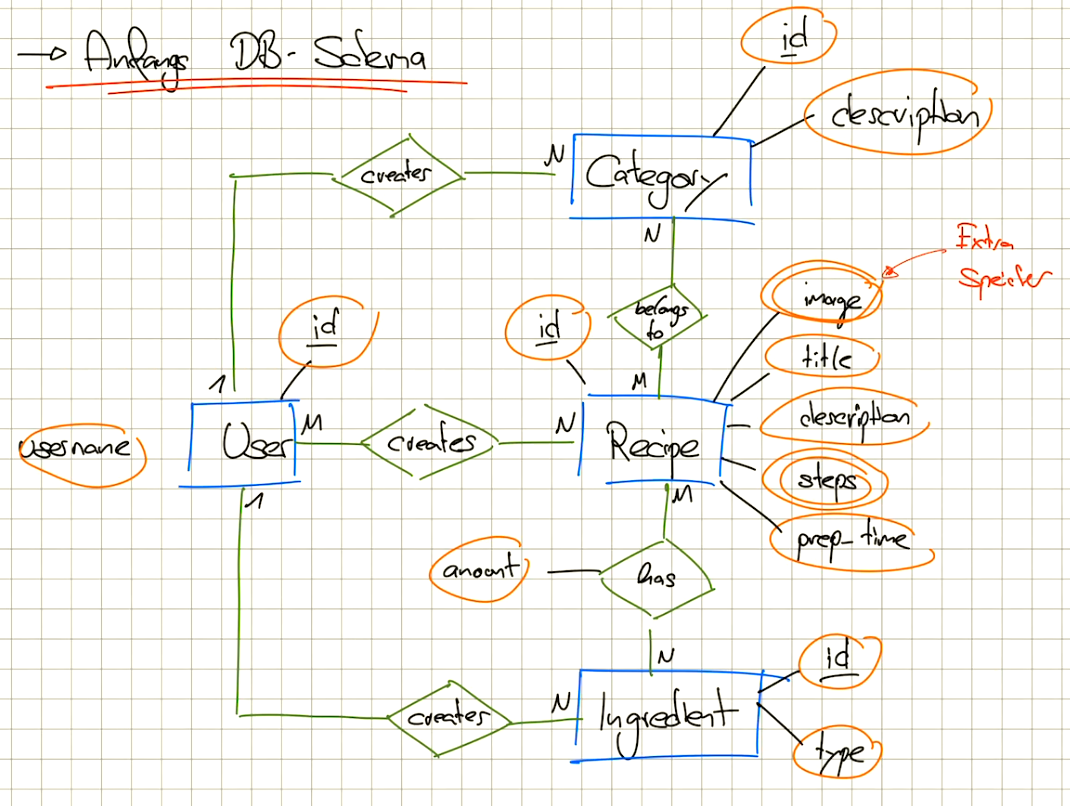
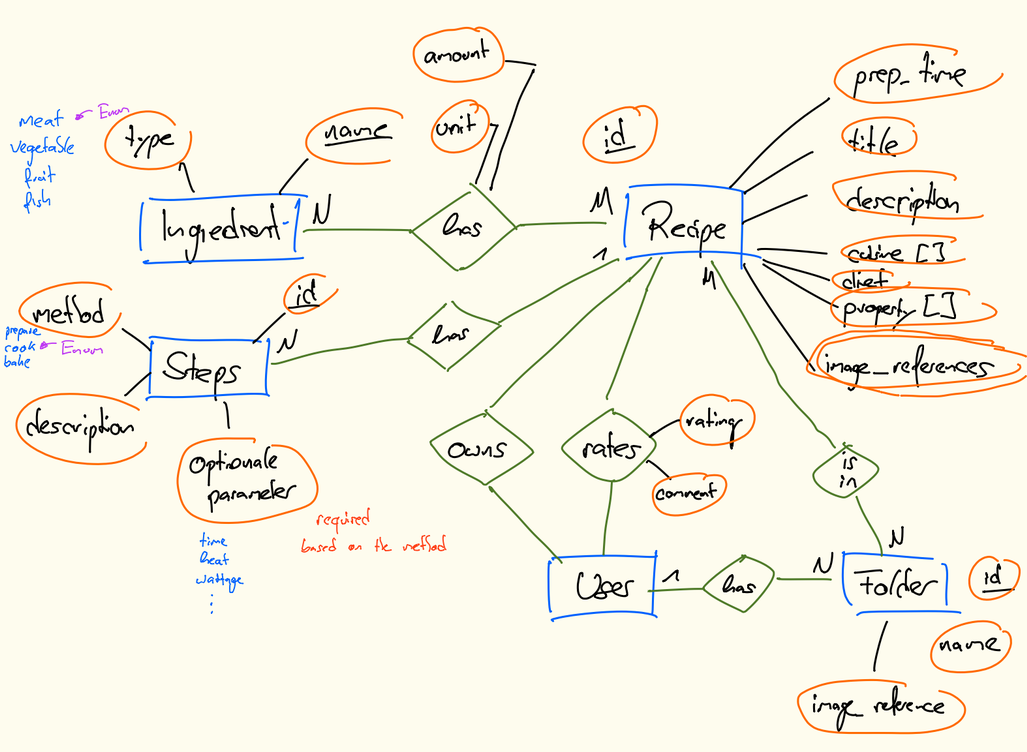
Added ER-Modell and updated docs

diff --git a/docs/planning/features.md b/docs/planning/features.md
@@ -7,19 +7,19 @@ Each feature page links to its epic issue, and each epic links back to its page.
 
 ## Feature Overview
 
-| Feature                        | Release | Priority | Spec                                                      | Epic |
-|--------------------------------|---------|----------|-----------------------------------------------------------|------|
-| Page: Rezepte Erstellung       | MVP     | Must     | -                                                         | -    |
-| Page: Meine Rezepte            | MVP     | Must     | -                                                         | -    |
-| Page: Rezepte Übersicht        | MVP     | Must     | -                                                         | -    |
-| Page: Rezepte Zubereitung      | MVP     | Must     | -                                                         | -    |
-| Page: Rezepte Feed             | -       | Must     | -                                                         | -    |
-| Page: Meal prepping            | -       | Should   | -                                                         | -    |
-| Page: Shopping Liste           | -       | Should   | -                                                         | -    |
-| Page: Profile Page             | -       | Must     | -                                                         | -    |
-| AI recipe assistance - Chatbot | -       | Must     | [AI recipe assistance](../epic-description/ai-assistance) | -    |
-| AI recipe assistance - Plugins | -       | Should   | [AI recipe assistance](../epic-description/ai-assistance) | -)   |
-| Sharing, groups & feed         | -       | Could    | -                                                         | -    |
+| Feature                        | Release | Priority | Spec                                                | Epic                                                      |
+|--------------------------------|---------|----------|-----------------------------------------------------|-----------------------------------------------------------|
+| Page: Rezepte Erstellung       | MVP     | Must     | [Rezepte Erstellung](../epic-specs/recipe-creation) | [GitHub](https://github.com/Luitzzi/RecipeMate/issues/11) |
+| Page: Meine Rezepte            | MVP     | Must     | -                                                   | -                                                         |
+| Page: Rezepte Übersicht        | MVP     | Must     | -                                                   | -                                                         |
+| Page: Rezepte Zubereitung      | MVP     | Must     | -                                                   | -                                                         |
+| Page: Rezepte Feed             | -       | Must     | -                                                   | -                                                         |
+| Page: Meal prepping            | -       | Should   | -                                                   | -                                                         |
+| Page: Shopping Liste           | -       | Should   | -                                                   | -                                                         |
+| Page: Profile Page             | -       | Must     | -                                                   | -                                                         |
+| AI recipe assistance - Chatbot | -       | Must     | [AI recipe assistance](../epic-specs/ai-assistance) | -                                                         |
+| AI recipe assistance - Plugins | -       | Should   | [AI recipe assistance](../epic-specs/ai-assistance) | -                                                         |
+| Sharing, groups & feed         | -       | Could    | -                                                   | -                                                         |
 
 ## Release plan
 

diff --git a/docs/planning/epic-specs/recipe-creation.md b/docs/planning/epic-specs/recipe-creation.md
@@ -1,0 +1,23 @@
+**Release:** MVP · **Priority:** Must · [**Epic**](https://github.com/Luitzzi/RecipeMate/issues/11)
+
+## Goal
+
+An easy-to-use recipe creation page where the user can create
+recipes manually, check AI-generated ones, or edit existing recipes.
+
+## Ui Drafts
+
+![](../../assets/images/ui-drafts/recipe-creation-uidraft.png){ width="150" }
+
+## Features
+
+- Bilder einfügen
+
+  → Provide extra storage for the images (External API ;) )
+
+- Zutaten erfassen
+- Arbeitsschritte erfassen
+
+## Open questions
+
+- Which image storage do we use?

diff --git a/docs/planning/releases/mvp-release.md b/docs/planning/releases/mvp-release.md
@@ -25,3 +25,7 @@ From there product can be evaluated and the next steps planned accordingly.
   → Transform the domain model into a db schema
 
     - How do we want save ingredients? Freetext / standing data
+
+  → Both: There is a set with standing data, providing suggestions, however, if the ingredient is not in the set the
+  user can add it.
+  Then the ingredient is just saved for the recipe.

diff --git a/docs/planning/epic-specs/epic-template.md b/docs/planning/epic-specs/epic-template.md
@@ -1,0 +1,11 @@
+# Epic template
+
+**Release:** TODO · **Priority:** TODO · [**Epic**]()
+
+## Goal
+
+### Ui Drafts
+
+## Features
+
+## Open questions
